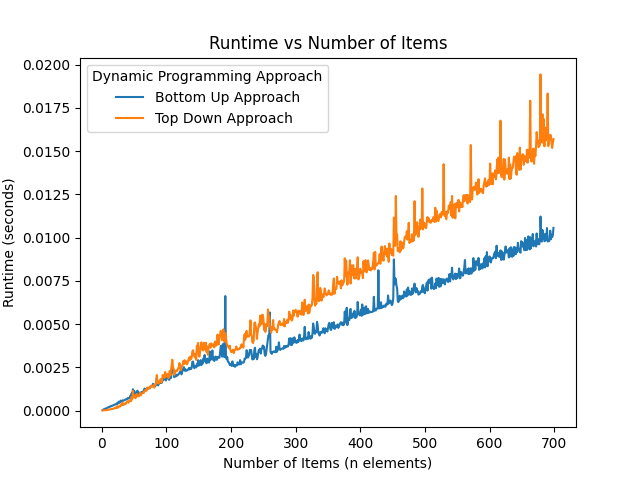
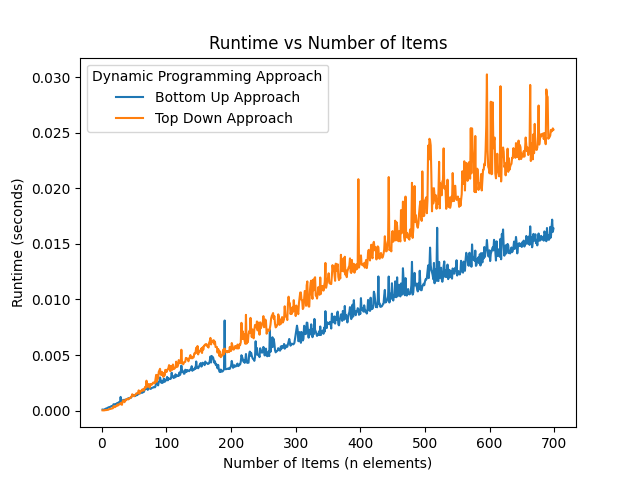
fixed up TDvsBU

diff --git a/Lab 3/Part 1/Experiment 2.py b/Lab 3/Part 1/Experiment 2.py
@@ -3,9 +3,9 @@ import matplotlib.pyplot as plot
 from knapsack import *
 
 def TDvsBU(average_runs):
-    capacity = 50
+    capacity = 60
     valMin, weightMin = 0, 0
-    valMax, weightMax = 100, 100
+    valMax, weightMax = 60, 60
 
     list_lens = [n for n in range(1, 700)]
     BU_times = []
@@ -74,3 +74,5 @@ def BUvsTD(average_runs):
     plot.ylabel('Runtime (seconds)')
     plot.title("Runtime vs Number of Items")
     plot.show()
+
+TDvsBU(7)
